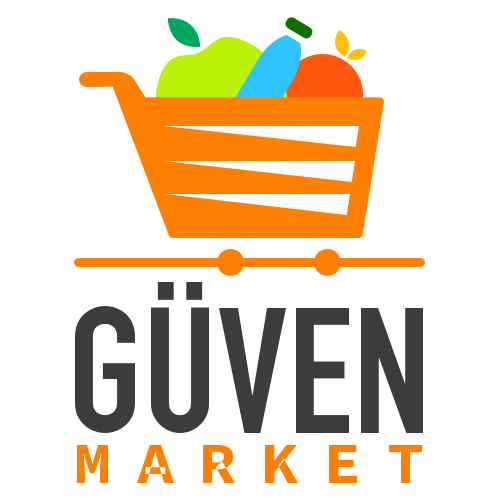
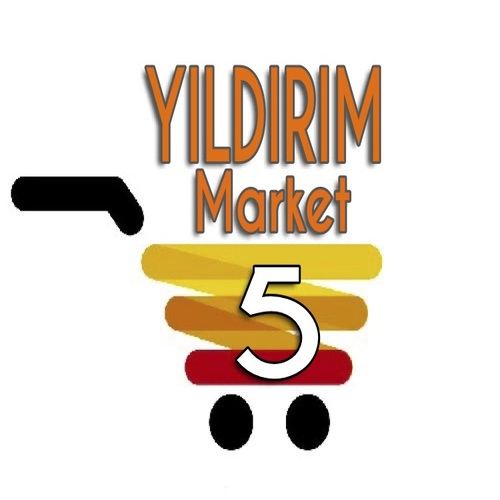
config

diff --git a/src/screens/AppScreens/Profile/StoreInfoScreen.tsx b/src/screens/AppScreens/Profile/StoreInfoScreen.tsx
@@ -129,7 +129,7 @@ class StoreInfoScreen extends Component<Props, State> {
             </Text>
             </View>
   
-            <TouchableHighlight onPress={()=> () => Linking.openURL(`tel:${phoneNumber}`)} underlayColor="#AAA"  style={{borderBottomWidth:1,borderBottomColor:colors.borderColor,padding:20,paddingVertical:15,backgroundColor:'white'}}>
+            <TouchableHighlight onPress={()=> Linking.openURL(`tel:${phoneNumber}`)} underlayColor="#AAA"  style={{borderBottomWidth:1,borderBottomColor:colors.borderColor,padding:20,paddingVertical:15,backgroundColor:'white'}}>
             <View style={{flexDirection:'row',justifyContent:'space-between'}}>
               <View style={{flexDirection:'row'}}>
               <Image source={require("../../../images/profile/007-phone-call.png")} style={{width:34,height:34, borderRadius:17}} />

diff --git a/src/screens/AuthScreens/Login/index.tsx b/src/screens/AuthScreens/Login/index.tsx
@@ -95,7 +95,7 @@ class Login extends Component<Props, {}> {
                     <View style={[styles.headStyle,{marginTop:Dimensions.get('window').height / 10}]}>
                       {/* <Image source={BaseImage} style={{width:100,height:100,marginBottom:10}} /> */}
                       <Text style={[styles.headText]}>
-                     Güven Market
+                     Yıldırım Market
                       </Text>
                     </View>
                     <View style={[styles.inputContainer,{paddingBottom:0}]}>

diff --git a/src/screens/AppScreens/Home/index.tsx b/src/screens/AppScreens/Home/index.tsx
@@ -246,10 +246,10 @@ class CustomerHomeScreen extends Component<Props, State> {
   static navigationOptions = ({ navigation }) => {
 
     return {
-      title: 'Güven Market',
+      title: 'Yıldırım Market',
       headerTintColor : 'white',
       headerStyle: {
-        backgroundColor: '#FF7F00',
+        backgroundColor: '#ECC344',
         color:colors.headerTitleColor,
         headerTitleStyle: {
           fontFamily: 'Roboto',

diff --git a/src/screens/AuthScreens/SignUp/SignUpSecondScreen.tsx b/src/screens/AuthScreens/SignUp/SignUpSecondScreen.tsx
@@ -131,7 +131,7 @@ class SignUpSecondScreen extends Component<Props, State> {
     user.password = this.props.userFirstData.password;
     user.address = values.adress;
     user.companyName = "";
-    user.phoneNumber = values.phoneNumber;
+    user.phoneNumber =  "0" + values.phoneNumber;
     user.userType = 3
     user.storeId = BasestoreId
     user.storeOwnerUserId = BaseStoreOwnerUserId

diff --git a/src/constants/colors.ts b/src/constants/colors.ts
@@ -16,7 +16,7 @@ export const colors = {
   containerBgSecond: '#84a9ac',
   containerBgThird: '#cae8d5',
   buttonBackgroundPrimary : '#30AE4A',
-  IconColor : '#FF7F00',
+  IconColor : '#ECC344',
   IconNormalColor : '#393E46',
   headerTitleColor :'#393E46',
   viewBackground: '#E5F1E5', // YESIL ARKA PLAN

diff --git a/src/services/AppConfig.ts b/src/services/AppConfig.ts
@@ -1,5 +1,5 @@
-export const BasestoreId = 2303;
-export const BaseStoreOwnerUserId = 4607;
+export const BasestoreId = 2318;
+export const BaseStoreOwnerUserId = 4726;
 
 export const BaseImage = require('../assets/BaseImage.png')
 export const BaseImageWithName = require('../assets/BaseImageWithName.png')

diff --git a/src/screens/AppScreens/Home/ProductListWithCategoryScreen.tsx b/src/screens/AppScreens/Home/ProductListWithCategoryScreen.tsx
@@ -144,7 +144,7 @@ class ProductListWithCategoryScreen extends Component<Props, State> {
   static navigationOptions = ({ navigation }) => {
 
     return {
-      title: 'Güven Market',
+      title: 'Yıldırım Market',
       
       headerStyle: {
         backgroundColor: colors.headerColorTop,

diff --git a/src/screens/AppScreens/Search/SearchScreen.tsx b/src/screens/AppScreens/Search/SearchScreen.tsx
@@ -84,7 +84,7 @@ class CustomerHomeScreen extends Component<Props, State> {
   static navigationOptions = ({ navigation }) => {
 
     return {
-      title: 'Güven Market',
+      title: 'Yıldırım Market',
 
       headerStyle: {
         backgroundColor: colors.headerColorTop,
